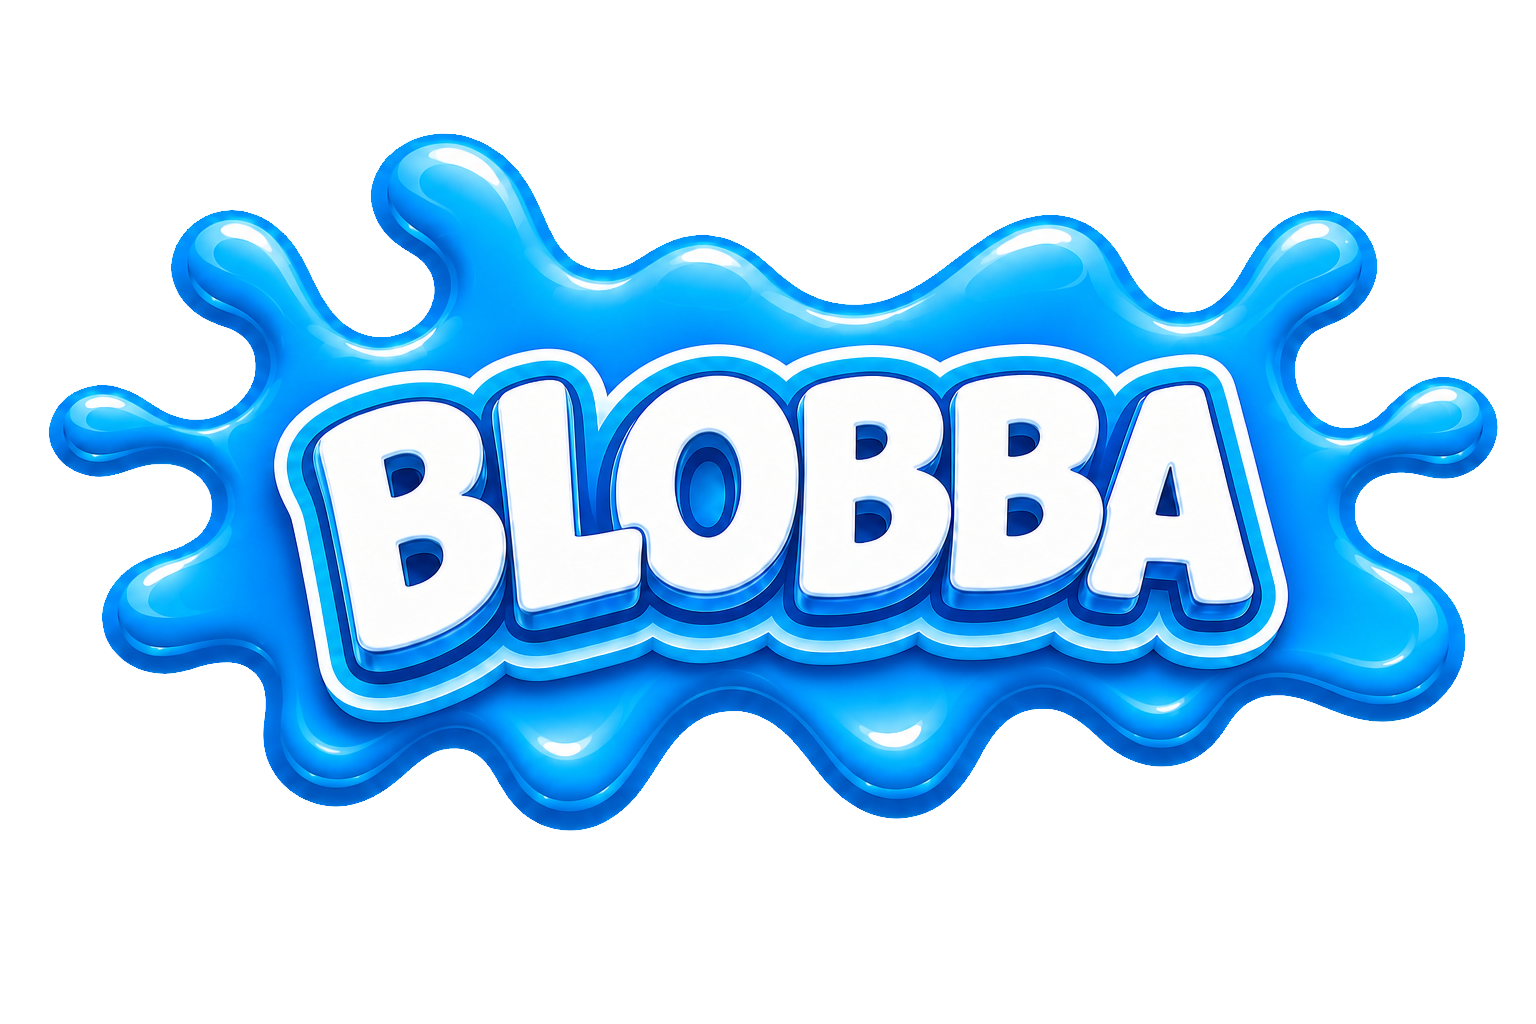
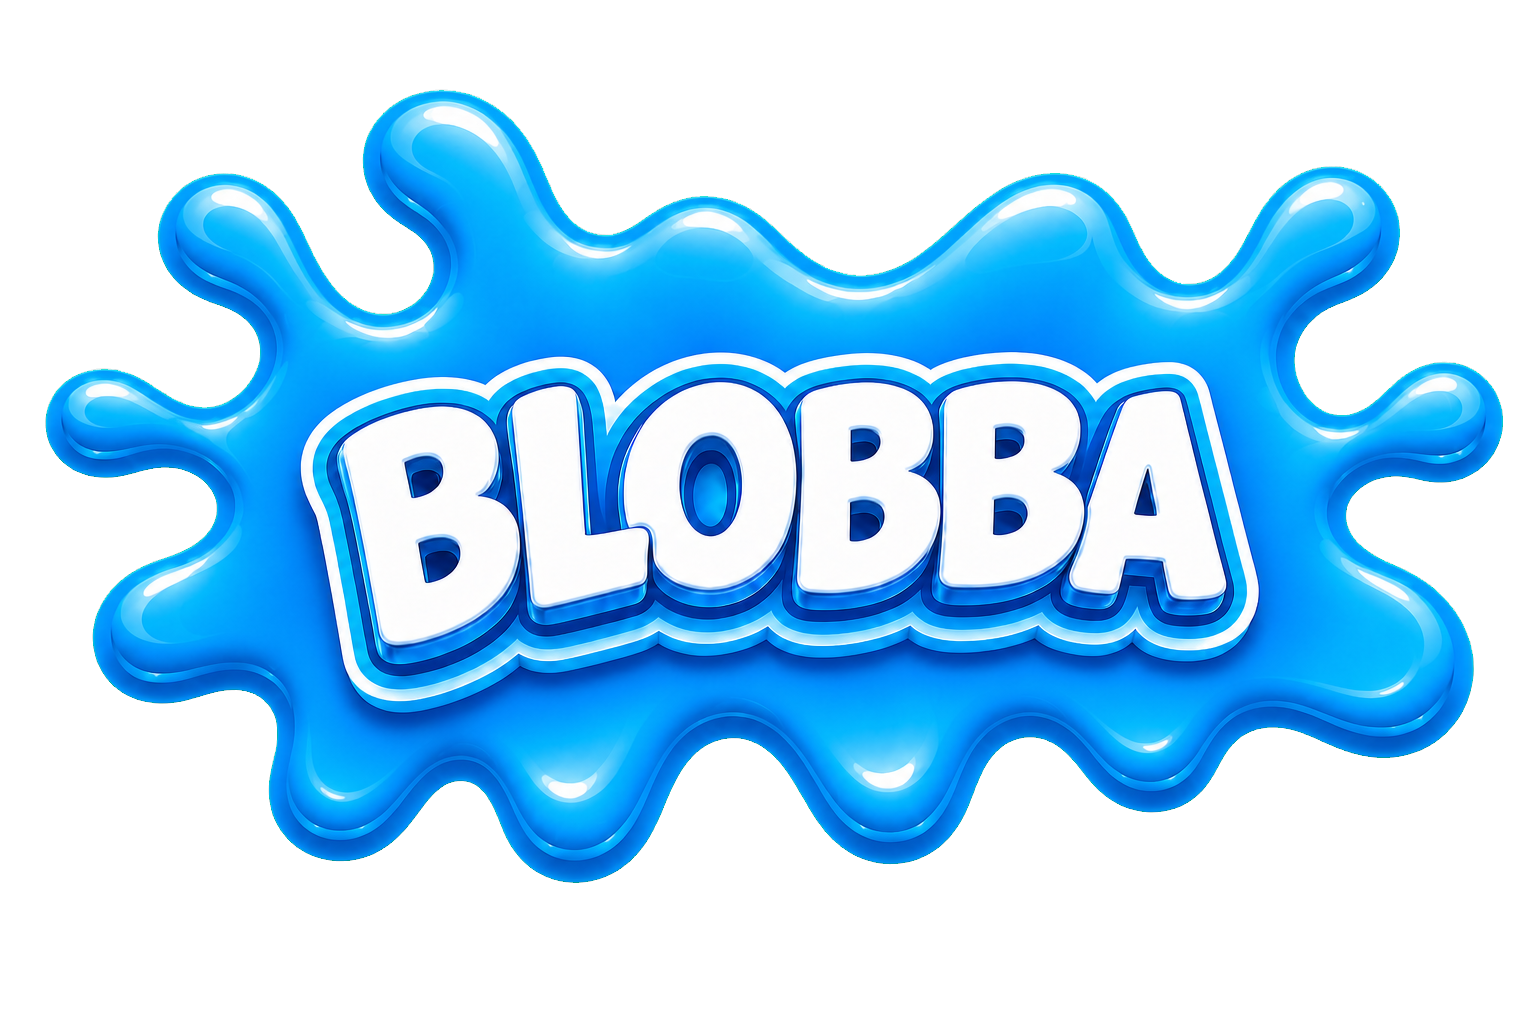
Redesign homepage summer palette

Changed region(s): [[0.0312, 0.0625, 1.0, 0.875]]

diff --git a/src/style.css b/src/style.css
@@ -694,8 +694,8 @@ html.is-standalone #app > .setup-page > .setup-shell {
 .home-page {
   --home-content-width: 820px;
   --home-control-radius: 20px;
-  --home-glass-border: rgba(255, 255, 255, .40);
-  --home-glass-shadow: 0 10px 26px rgba(2, 0, 24, .30), 0 0 18px rgba(138, 67, 255, .11);
+  --home-glass-border: rgba(255, 255, 255, .68);
+  --home-glass-shadow: 0 14px 34px rgba(35, 132, 174, .16), 0 4px 12px rgba(35, 132, 174, .10);
   padding-right: max(clamp(14px, 3.4vw, 48px), env(safe-area-inset-right, 0px));
   padding-bottom: calc(clamp(28px, 6vh, 64px) + env(safe-area-inset-bottom, 0px));
   padding-left: max(clamp(14px, 3.4vw, 48px), env(safe-area-inset-left, 0px));
@@ -751,21 +751,22 @@ html.is-standalone #app > .setup-page > .setup-shell {
 .home-page .favorites-filter-button {
   border-color: var(--home-glass-border);
   border-radius: var(--home-control-radius);
-  background: linear-gradient(112deg, rgba(1, 155, 251, .62), rgba(0, 70, 170, .62));
-  box-shadow: inset 0 1px 0 rgba(255, 255, 255, .17), var(--home-glass-shadow);
+  background: linear-gradient(180deg, rgba(73, 199, 240, .88), rgba(20, 161, 211, .82));
+  box-shadow: inset 0 1px 0 rgba(255, 255, 255, .66), inset 0 -1px 0 rgba(12, 125, 174, .16), var(--home-glass-shadow);
 }
 
 .home-page .games-search-bar {
-  border-color: rgba(255, 255, 255, .44);
-  background: linear-gradient(112deg, rgba(1, 155, 251, .31), rgba(0, 70, 170, .31));
-  backdrop-filter: blur(8px);
+  border-color: rgba(255, 255, 255, .72);
+  background: linear-gradient(180deg, rgba(236, 251, 255, .70), rgba(106, 214, 224, .52));
+  -webkit-backdrop-filter: blur(12px) saturate(1.08);
+  backdrop-filter: blur(12px) saturate(1.08);
 }
 
-.home-page .game-search input::placeholder { color: rgba(255, 255, 255, .84); }
+.home-page .game-search input::placeholder { color: rgba(255, 255, 255, .92); }
 
 .home-page .game-search:focus-within {
-  border-color: rgba(255, 255, 255, .84);
-  box-shadow: inset 0 1px 0 rgba(255, 255, 255, .20), 0 0 0 3px rgba(171, 105, 255, .16), 0 0 22px rgba(82, 129, 255, .20), 0 8px 20px rgba(0, 0, 0, .24);
+  border-color: rgba(255, 255, 255, .94);
+  box-shadow: inset 0 1px 0 rgba(255, 255, 255, .72), 0 0 0 3px rgba(73, 199, 240, .20), 0 0 24px rgba(29, 175, 218, .24), 0 10px 26px rgba(35, 132, 174, .15);
 }
 
 .home-page .categories-filter-button,
@@ -775,6 +776,13 @@ html.is-standalone #app > .setup-page > .setup-shell {
 
 .home-page .categories-filter-button:active,
 .home-page .favorites-filter-button:active { transform: scale(.98); }
+
+.home-page .categories-filter-button.is-active,
+.home-page .favorites-filter-button.is-active {
+  border-color: rgba(255, 255, 255, .82);
+  background: linear-gradient(180deg, rgba(60, 206, 229, .94), rgba(13, 151, 201, .90));
+  box-shadow: inset 0 1px 0 rgba(255, 255, 255, .68), 0 12px 30px rgba(28, 145, 186, .20);
+}
 
 .home-section-title {
   z-index: 1;
@@ -853,21 +861,41 @@ html.is-standalone #app > .setup-page > .setup-shell {
 .home-page,
 html.is-standalone #app > .home-page {
   --home-sun-size: clamp(305px, 68vw, 670px);
-  background: #9ddcf7;
+  background:
+    linear-gradient(180deg,
+      #fff9d9 0%,
+      #fff1c2 25%,
+      #f5f4dd 43%,
+      #e6f7ff 65%,
+      #89d2f2 100%);
   background-attachment: local;
 }
 
 .home-page::before {
   position: fixed;
-  background: none;
-  opacity: 0;
-  filter: none;
+  background:
+    linear-gradient(109deg, transparent 20%, rgba(255, 255, 255, .22) 34%, transparent 48%),
+    linear-gradient(71deg, transparent 28%, rgba(255, 255, 255, .15) 40%, transparent 53%),
+    radial-gradient(ellipse 28% 9% at 16% 27%, rgba(255, 255, 255, .22), transparent 72%),
+    radial-gradient(ellipse 34% 10% at 79% 34%, rgba(255, 255, 255, .18), transparent 74%),
+    radial-gradient(ellipse 26% 8% at 48% 48%, rgba(255, 255, 255, .12), transparent 76%);
+  opacity: .58;
+  filter: blur(15px);
+  -webkit-mask-image: none;
+  mask-image: none;
 }
 
 .home-page::after {
   position: fixed;
-  background: none;
-  opacity: 0;
+  background:
+    radial-gradient(ellipse 42% 3% at 18% 83%, rgba(255, 255, 255, .20), transparent 72%),
+    radial-gradient(ellipse 48% 3% at 78% 90%, rgba(255, 255, 255, .16), transparent 74%),
+    radial-gradient(ellipse 35% 2.5% at 48% 96%, rgba(33, 161, 213, .14), transparent 76%),
+    linear-gradient(180deg, transparent 60%, rgba(25, 167, 219, .08) 100%);
+  opacity: .58;
+  filter: blur(10px);
+  -webkit-mask-image: linear-gradient(to bottom, transparent 50%, #000 78%);
+  mask-image: linear-gradient(to bottom, transparent 50%, #000 78%);
 }
 
 .home-page .hero-header::before {